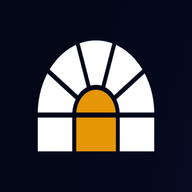
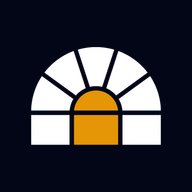
seo: full brand-asset pack + per-section OG cards
Input: Pimlico_SI_Brandmark_Inverted.png (white+orange on dark),
Pimlico_SI_Logo_Inverted.png (wordmark, white on dark).

Generated (scripts/build-brand-assets.mjs):
  pimlico-logo-square.png   1200x1200 square Organization.logo
  apple-touch-icon.png      180x180 dark-blue canvas, centred mark
  icon-192 / icon-512       PWA icons
  favicon-16 / -32 / -48    SERP favicons with proper canvas fill
  og-default.jpg            1200x630 branded share card
  og-{gambling,payments,crypto,ai}.jpg  per-vertical share cards
  og-regulators.jpg / og-frameworks.jpg hub share cards

Metadata wiring:
- Organization.logo now points to 1200x1200 square asset so Google's
  Knowledge Panel, Discover and SERP site-title chip can use it
- /regulators, /frameworks and their [slug] pages use matched section
  OG cards instead of the generic one
- NewsArticle publisher logo updated to the new square logo
- Normalised og:siteName to "Pimlico Solutions" everywhere so brand
  attribution is consistent across corporate + product queries

https://claude.ai/code/session_012jTghQoRJxdAnTSpN3uR9e

Changed region(s): [[0.1562, 0.1875, 0.8438, 0.8125]]

diff --git a/src/app/insights/[slug]/page.jsx b/src/app/insights/[slug]/page.jsx
@@ -40,7 +40,7 @@ export async function generateMetadata({ params }) {
         title: 'Article Not Found - XHS™ Copilot',
         description: 'The requested article could not be found.',
         url: `${baseUrl}/insights/${slug}`,
-        siteName: 'XHS™ Copilot',
+        siteName: 'Pimlico Solutions',
         type: 'website',
       },
     };
@@ -71,7 +71,7 @@ export async function generateMetadata({ params }) {
       title: article.title,
       description: description,
       url: `${baseUrl}/insights/${slug}`,
-      siteName: 'XHS™ Copilot',
+      siteName: 'Pimlico Solutions',
       type: 'article',
       publishedTime: article.date,
       modifiedTime: article.date,
@@ -139,9 +139,9 @@ export default async function ArticlePage({ params }) {
           "url": baseUrl,
           "logo": {
             "@type": "ImageObject",
-            "url": `${baseUrl}/Pimlico_SI_Brandmark.png`,
-            "width": 249,
-            "height": 187,
+            "url": `${baseUrl}/pimlico-logo-square.png`,
+            "width": 1200,
+            "height": 1200,
           },
         },
         "mainEntityOfPage": {

diff --git a/src/app/verticals/layout.jsx b/src/app/verticals/layout.jsx
@@ -7,11 +7,17 @@ export const metadata = {
     description: 'Regulatory intelligence for gambling, payments, crypto and AI compliance teams. 275+ jurisdictions, analyzed daily.',
     url: 'https://pimlicosolutions.com/verticals',
     images: ['/og-default.jpg'],
+    // Per-vertical share cards (og-gambling.jpg, og-payments.jpg, etc.)
+    // are generated by scripts/build-brand-assets.mjs and are available
+    // if we split the verticals page into separate routes later.
   },
   twitter: {
     title: 'Verticals — XHS™ Copilot',
     description: 'Regulatory intelligence for gambling, payments, crypto and AI compliance teams. 275+ jurisdictions, analyzed daily.',
     images: ['/og-default.jpg'],
+    // Per-vertical share cards (og-gambling.jpg, og-payments.jpg, etc.)
+    // are generated by scripts/build-brand-assets.mjs and are available
+    // if we split the verticals page into separate routes later.
   },
 }
 

diff --git a/src/app/layout.jsx b/src/app/layout.jsx
@@ -162,9 +162,9 @@ export default function RootLayout({ children }) {
               "disambiguatingDescription": "Pimlico Solutions Ltd is a UK-based regulatory technology (regtech) company registered at Companies House under number 15725938. It builds XHS™ Copilot, a software platform for compliance teams. Pimlico Solutions is not affiliated with Pimlico Plumbers, Pimlico Journal, the Pimlico neighbourhood of London, or any other unrelated entity that shares the Pimlico name.",
               "logo": {
                 "@type": "ImageObject",
-                "url": "https://pimlicosolutions.com/Pimlico_SI_Brandmark.png",
-                "width": 249,
-                "height": 187,
+                "url": "https://pimlicosolutions.com/pimlico-logo-square.png",
+                "width": 1200,
+                "height": 1200,
                 "caption": "Pimlico Solutions"
               },
               "image": {

diff --git a/src/app/regulators/[slug]/page.jsx b/src/app/regulators/[slug]/page.jsx
@@ -24,16 +24,16 @@ export async function generateMetadata({ params }) {
       title: `${r.abbr} compliance — XHS™ Copilot`,
       description,
       url: `https://pimlicosolutions.com/regulators/${r.slug}`,
-      siteName: 'XHS™ Copilot',
+      siteName: 'Pimlico Solutions',
       type: 'article',
-      images: ['/og-default.jpg'],
+      images: ['/og-regulators.jpg'],
     },
     twitter: {
       card: 'summary_large_image',
       site: '@pimlicoxhs',
       title: `${r.abbr} compliance — XHS™ Copilot`,
       description,
-      images: ['/og-default.jpg'],
+      images: ['/og-regulators.jpg'],
     },
   }
 }

diff --git a/src/app/regulators/page.jsx b/src/app/regulators/page.jsx
@@ -11,7 +11,7 @@ export const metadata = {
     description:
       'Every regulator XHS™ Copilot tracks across gambling, payments, crypto and AI compliance.',
     url: 'https://pimlicosolutions.com/regulators',
-    images: ['/og-default.jpg'],
+    images: ['/og-regulators.jpg'],
   },
   twitter: {
     card: 'summary_large_image',
@@ -19,7 +19,7 @@ export const metadata = {
     title: 'Regulators — XHS™ Copilot',
     description:
       'Every regulator XHS™ Copilot tracks across gambling, payments, crypto and AI compliance.',
-    images: ['/og-default.jpg'],
+    images: ['/og-regulators.jpg'],
   },
 }
 

diff --git a/src/app/frameworks/page.jsx b/src/app/frameworks/page.jsx
@@ -10,14 +10,14 @@ export const metadata = {
     title: 'Frameworks — XHS™ Copilot',
     description: 'MiCA, PSD2, DORA, EU AI Act and more — tracked end-to-end by XHS™ Copilot.',
     url: 'https://pimlicosolutions.com/frameworks',
-    images: ['/og-default.jpg'],
+    images: ['/og-frameworks.jpg'],
   },
   twitter: {
     card: 'summary_large_image',
     site: '@pimlicoxhs',
     title: 'Frameworks — XHS™ Copilot',
     description: 'MiCA, PSD2, DORA, EU AI Act and more — tracked end-to-end by XHS™ Copilot.',
-    images: ['/og-default.jpg'],
+    images: ['/og-frameworks.jpg'],
   },
 }
 

diff --git a/src/app/frameworks/[slug]/page.jsx b/src/app/frameworks/[slug]/page.jsx
@@ -23,16 +23,16 @@ export async function generateMetadata({ params }) {
       title: `${f.abbr} — XHS™ Copilot`,
       description,
       url: `https://pimlicosolutions.com/frameworks/${f.slug}`,
-      siteName: 'XHS™ Copilot',
+      siteName: 'Pimlico Solutions',
       type: 'article',
-      images: ['/og-default.jpg'],
+      images: ['/og-frameworks.jpg'],
     },
     twitter: {
       card: 'summary_large_image',
       site: '@pimlicoxhs',
       title: `${f.abbr} — XHS™ Copilot`,
       description,
-      images: ['/og-default.jpg'],
+      images: ['/og-frameworks.jpg'],
     },
   }
 }

diff --git a/src/app/terms-and-conditions/page.jsx b/src/app/terms-and-conditions/page.jsx
@@ -6,7 +6,7 @@ export const metadata = {
     title: 'Terms and Conditions — Pimlico Solutions',
     description: 'Terms of service for using XHS™ Copilot and the Pimlico Solutions platform.',
     url: 'https://pimlicosolutions.com/terms-and-conditions',
-    siteName: 'XHS™ Copilot',
+    siteName: 'Pimlico Solutions',
     type: 'website',
     images: ['/og-default.jpg'],
   },

diff --git a/src/app/privacy/page.jsx b/src/app/privacy/page.jsx
@@ -6,7 +6,7 @@ export const metadata = {
     title: 'Privacy Policy — Pimlico Solutions',
     description: 'How Pimlico Solutions Ltd collects, uses, and protects your personal data under UK GDPR.',
     url: 'https://pimlicosolutions.com/privacy',
-    siteName: 'XHS™ Copilot',
+    siteName: 'Pimlico Solutions',
     type: 'website',
     images: ['/og-default.jpg'],
   },
